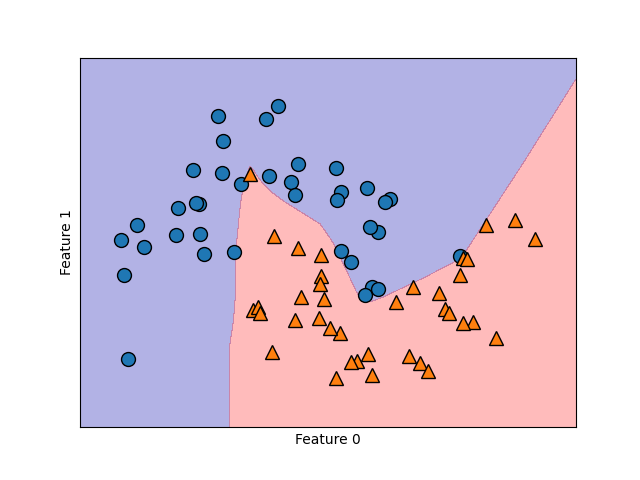
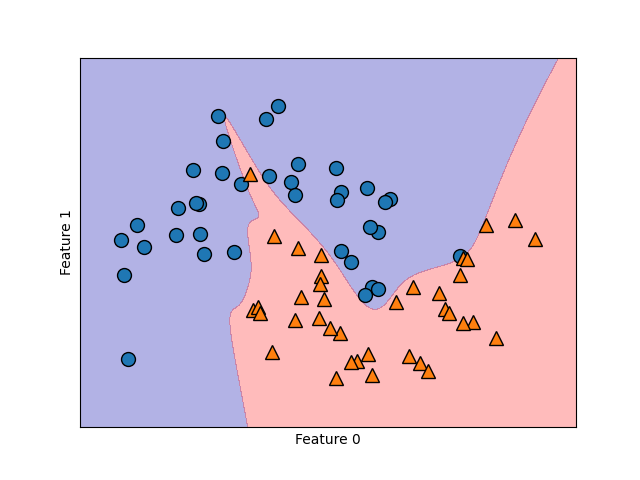
10 units double mlp

diff --git a/mlp/mlp.py b/mlp/mlp.py
@@ -10,7 +10,7 @@ def execute():
 
     X_train, X_test, y_train, y_test = train_test_split(X, y, stratify=y, random_state=42)
 
-    mlp = MLPClassifier(solver='lbfgs', random_state=0,hidden_layer_sizes=[10]).fit(X_train, y_train)
+    mlp = MLPClassifier(solver='lbfgs', random_state=0,hidden_layer_sizes=[10,10]).fit(X_train, y_train)
 
     fig = plt.figure()
     mglearn.plots.plot_2d_separator(mlp, X_train, fill=True, alpha=.3)
